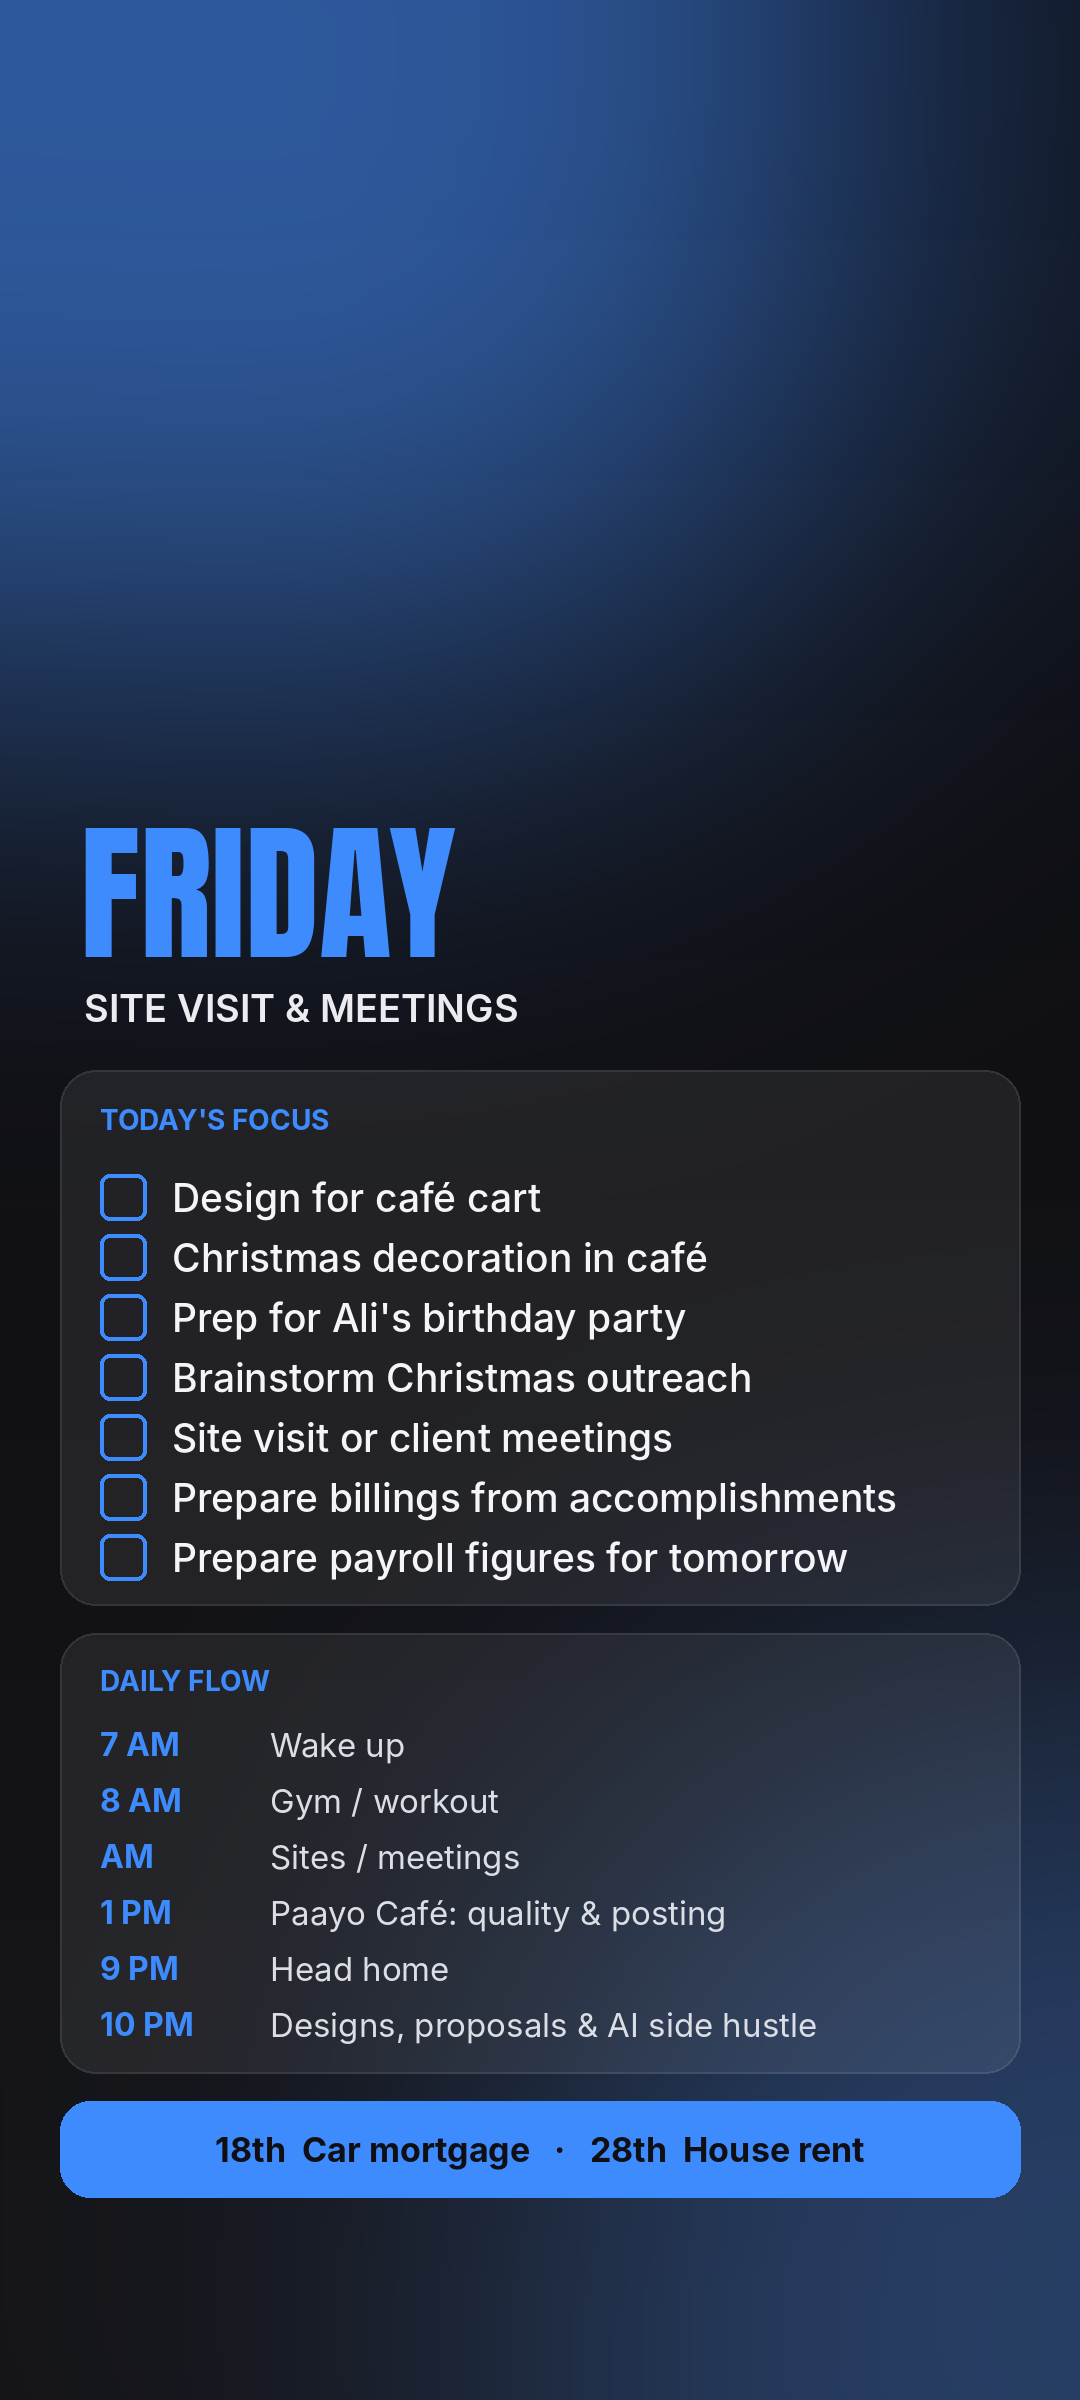
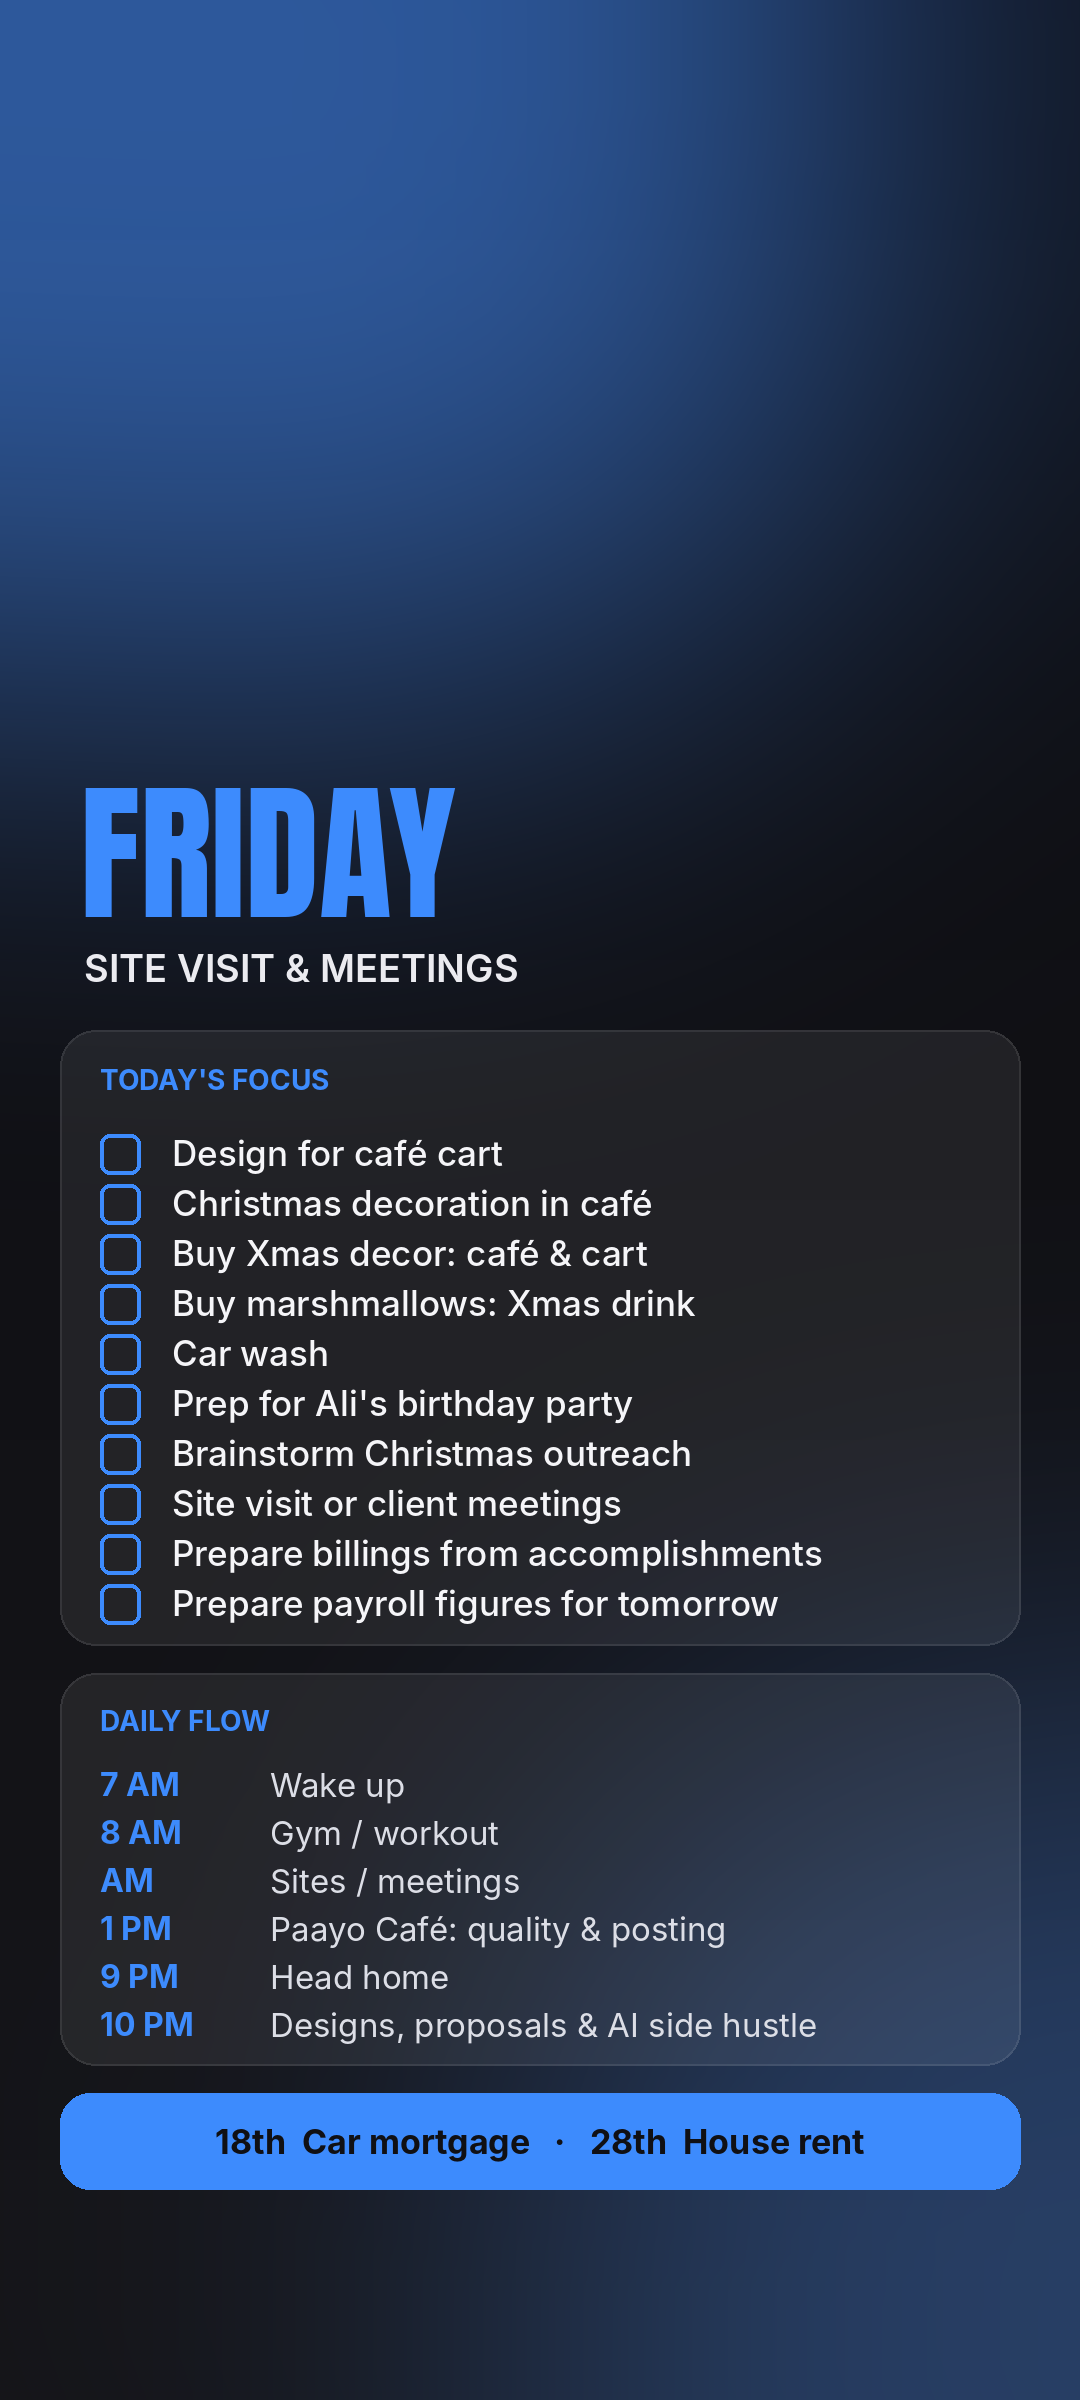
Friday goals: Xmas decor, marshmallows, car wash; compact layout for long lists
Claude-Session: https://claude.ai/code/session_01X6GduKh7ksH3XkzsjMMwK9

Changed region(s): [[0.0611, 0.3125, 0.9167, 0.9375]]

diff --git a/generator.py b/generator.py
@@ -51,7 +51,9 @@ for idx, (day, sub, accent, focus, mid) in enumerate(DAYS, 1):
     img = background(accent)
     d = ImageDraw.Draw(img)
     X = 80
-    y = 780  # keep top area clear for the lock-screen clock
+    n_rows = len(focus)
+    compact = n_rows > 7
+    y = 740 if compact else 780  # keep top area clear for the lock-screen clock
 
     # Day title
     d.text((X, y), day, font=anton(150), fill=A)
@@ -62,15 +64,16 @@ for idx, (day, sub, accent, focus, mid) in enumerate(DAYS, 1):
     # Focus card
     top = y
     rows = len(focus)
-    step = 92 if rows <= 4 else max(60, int(368 / rows))
+    step = 92 if rows <= 4 else (50 if compact else max(60, int(368 / rows)))
     card_h = 95 + rows * step + 20
     card(img, [X - 20, top, W - X + 20, top + card_h])
     d = ImageDraw.Draw(img)
     d.text((X + 20, top + 32), "TODAY'S FOCUS", font=f("Inter-Bold.otf", 28), fill=A)
     ry = top + 100
     for item in focus:
-        d.rounded_rectangle([X + 20, ry + 4, X + 66, ry + 50], 10, outline=A, width=4)
-        d.text((X + 92, ry + 4), item, font=f("Inter-Medium.otf", 39), fill=(245, 245, 248))
+        bx = 40 if compact else 46
+        d.rounded_rectangle([X + 20, ry + 4, X + 20 + bx, ry + 4 + bx], 10, outline=A, width=4)
+        d.text((X + 92, ry + (2 if compact else 4)), item, font=f("Inter-Medium.otf", 35 if compact else 39), fill=(245, 245, 248))
         ry += step
     y = top + card_h + 28
 
@@ -87,7 +90,8 @@ for idx, (day, sub, accent, focus, mid) in enumerate(DAYS, 1):
         flow[2] = ("AM", "Rest & recharge")
         flow[5] = ("10 PM", "Light planning, sleep early")
     top = y
-    card_h = 90 + len(flow) * 56 + 14
+    fstep = 48 if compact else 56
+    card_h = 90 + len(flow) * fstep + 14
     card(img, [X - 20, top, W - X + 20, top + card_h])
     d = ImageDraw.Draw(img)
     d.text((X + 20, top + 30), "DAILY FLOW", font=f("Inter-Bold.otf", 28), fill=A)
@@ -95,7 +99,7 @@ for idx, (day, sub, accent, focus, mid) in enumerate(DAYS, 1):
     for t, label in flow:
         d.text((X + 20, ry), t, font=f("Inter-Bold.otf", 32), fill=A)
         d.text((X + 190, ry), label, font=f("Inter-Regular.otf", 33), fill=(220, 222, 230))
-        ry += 56
+        ry += fstep
     y = top + card_h + 28
 
     # Monthly bills banner
